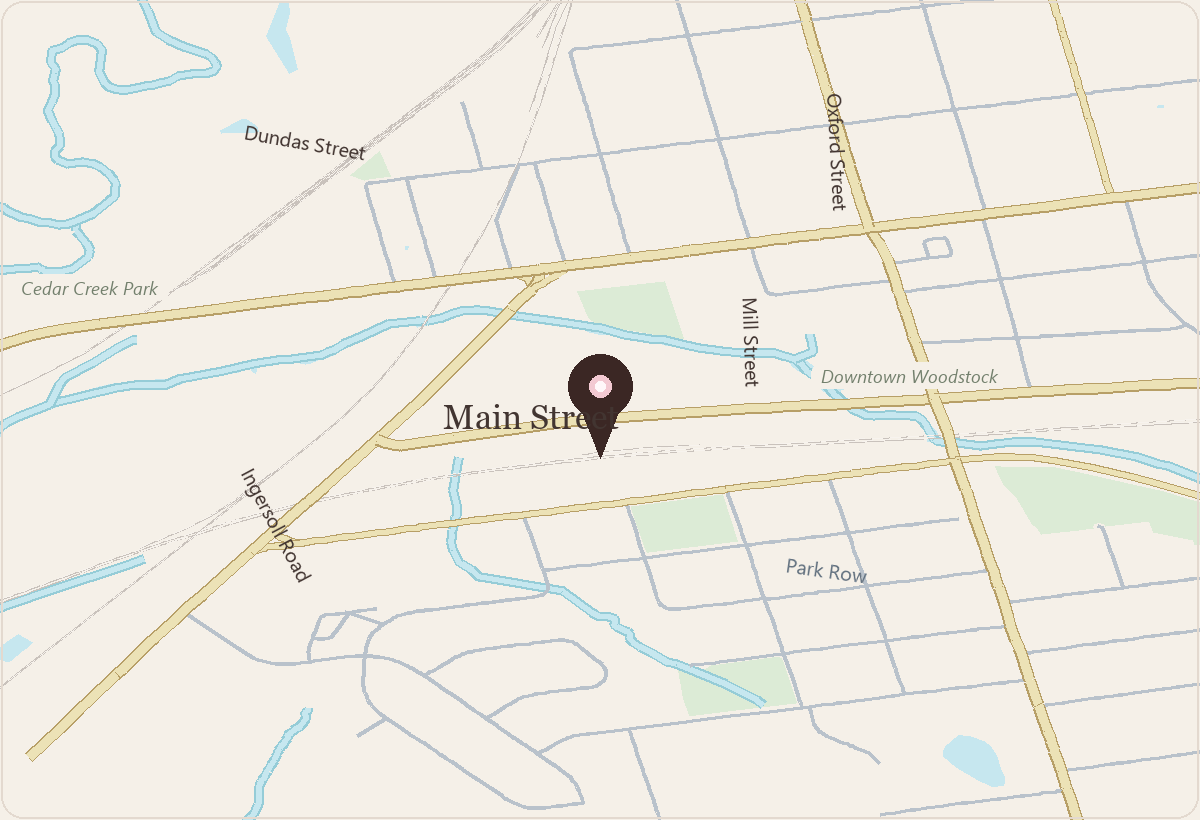
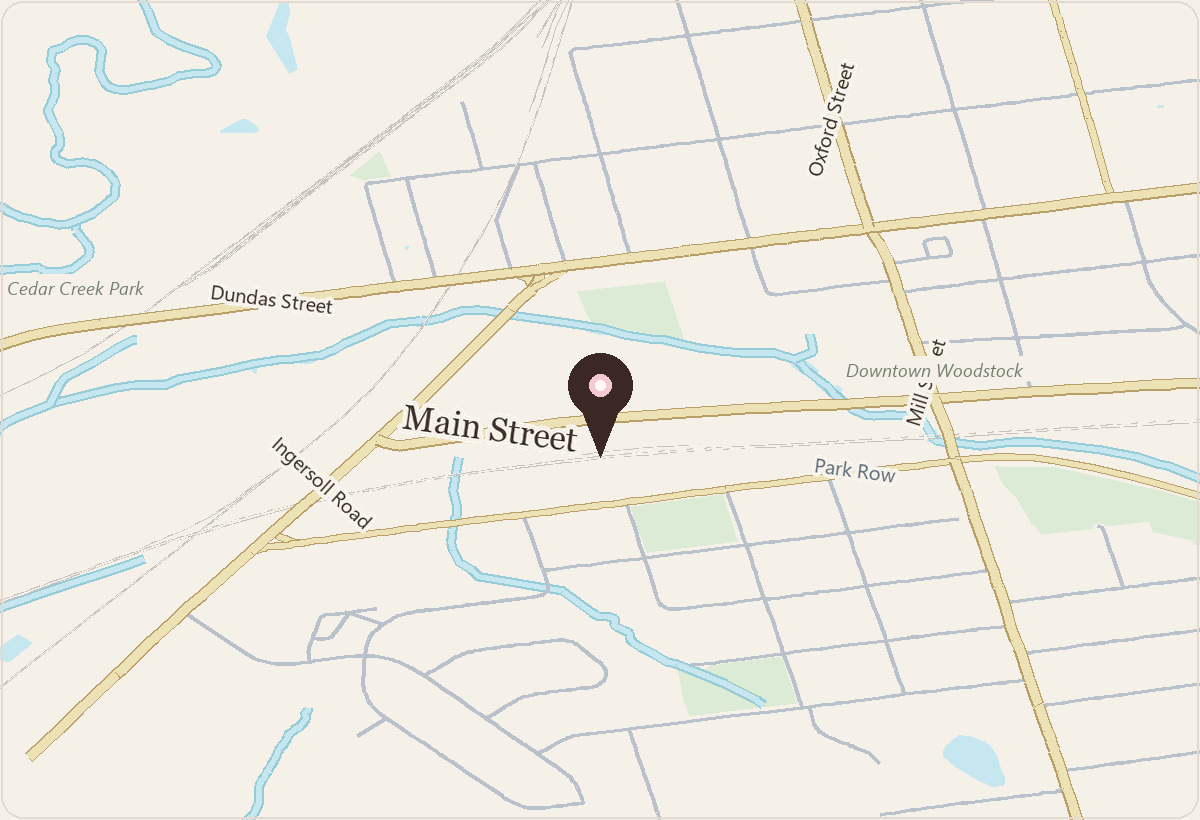
Correct map street label placement

diff --git a/scripts/generate_map.py b/scripts/generate_map.py
@@ -1,0 +1,292 @@
+import math
+from pathlib import Path
+
+import requests
+from PIL import Image, ImageDraw, ImageFont
+
+
+VENUE_LAT = 43.125887
+VENUE_LON = -80.769466
+
+WIDTH = 1200
+HEIGHT = 820
+PAD_LAT = 0.0062
+PAD_LON = 0.0082
+PAD_PX = 30
+
+OUTPUT = Path("site-redesign/assets/images/woodstock-openstreetmap.png")
+
+TARGET_LABEL_POINTS = {
+    "Main Street": (43.12577, -80.7710),
+    "Dundas Street": (43.12786, -80.77415),
+    "Ingersoll Road": (43.12472, -80.77355),
+    "Mill Street": (43.12645, -80.7646),
+    "Oxford Street": (43.13072, -80.76602),
+    "Park Row": (43.12453, -80.7657),
+}
+
+ROAD_LABEL_STYLE = {
+    "Main Street": {"font_size": 34, "fill": "#423531", "stroke": "#f5f0e8", "stroke_width": 5},
+    "Dundas Street": {"font_size": 20, "fill": "#423531", "stroke": "#f5f0e8", "stroke_width": 4},
+    "Ingersoll Road": {"font_size": 20, "fill": "#423531", "stroke": "#f5f0e8", "stroke_width": 4},
+    "Mill Street": {"font_size": 20, "fill": "#423531", "stroke": "#f5f0e8", "stroke_width": 4},
+    "Oxford Street": {"font_size": 20, "fill": "#423531", "stroke": "#f5f0e8", "stroke_width": 4},
+    "Park Row": {"font_size": 20, "fill": "#63717f", "stroke": "#f5f0e8", "stroke_width": 4},
+}
+
+
+def fetch_map_elements():
+    south = VENUE_LAT - PAD_LAT
+    north = VENUE_LAT + PAD_LAT
+    west = VENUE_LON - PAD_LON
+    east = VENUE_LON + PAD_LON
+
+    query = f"""
+    [out:json][timeout:25];
+    (
+      way["highway"]({south},{west},{north},{east});
+      way["waterway"]({south},{west},{north},{east});
+      way["railway"]({south},{west},{north},{east});
+      way["landuse"="park"]({south},{west},{north},{east});
+      way["leisure"="park"]({south},{west},{north},{east});
+      way["natural"="water"]({south},{west},{north},{east});
+    );
+    out geom tags;
+    """
+    response = requests.post(
+        "https://overpass-api.de/api/interpreter",
+        data=query.encode("utf-8"),
+        headers={"User-Agent": "BlankSpace redesign custom illustrated map"},
+        timeout=60,
+    )
+    response.raise_for_status()
+    return response.json()["elements"]
+
+
+def project(lat, lon):
+    x = PAD_PX + (lon - (VENUE_LON - PAD_LON)) / (PAD_LON * 2) * (WIDTH - PAD_PX * 2)
+    y = PAD_PX + ((VENUE_LAT + PAD_LAT) - lat) / (PAD_LAT * 2) * (HEIGHT - PAD_PX * 2)
+    return x, y
+
+
+def points_from_geometry(geometry):
+    return [project(point["lat"], point["lon"]) for point in geometry]
+
+
+def categorize(elements):
+    parks = []
+    waters = []
+    rails = []
+    roads = []
+
+    for element in elements:
+        tags = element.get("tags", {})
+        geometry = element.get("geometry")
+        if not geometry:
+            continue
+        points = points_from_geometry(geometry)
+        if tags.get("landuse") == "park" or tags.get("leisure") == "park":
+            parks.append((tags, points))
+        elif tags.get("natural") == "water" or tags.get("waterway"):
+            waters.append((tags, points))
+        elif tags.get("railway"):
+            rails.append((tags, points))
+        elif tags.get("highway"):
+            roads.append((tags, points))
+
+    return parks, waters, rails, roads
+
+
+def distance_point_to_segment(point, start, end):
+    px, py = point
+    x1, y1 = start
+    x2, y2 = end
+    dx = x2 - x1
+    dy = y2 - y1
+    seg_len_sq = dx * dx + dy * dy
+    if seg_len_sq == 0:
+        return math.hypot(px - x1, py - y1), start, 0.0
+    t = ((px - x1) * dx + (py - y1) * dy) / seg_len_sq
+    t = max(0.0, min(1.0, t))
+    nearest = (x1 + t * dx, y1 + t * dy)
+    angle = math.degrees(math.atan2(dy, dx))
+    if angle > 90:
+        angle -= 180
+    if angle < -90:
+        angle += 180
+    return math.hypot(px - nearest[0], py - nearest[1]), nearest, angle
+
+
+def nearest_label_position(roads_by_name, road_name, target_latlon):
+    target_point = project(*target_latlon)
+    best = None
+    for polyline in roads_by_name.get(road_name, []):
+        for index in range(len(polyline) - 1):
+            start = polyline[index]
+            end = polyline[index + 1]
+            distance, nearest, angle = distance_point_to_segment(target_point, start, end)
+            if best is None or distance < best[0]:
+                best = (distance, nearest, angle)
+    if best is None:
+        raise ValueError(f"No geometry found for {road_name}")
+    return best[1], best[2]
+
+
+def draw_rotated_text(base_image, text, position, angle, font, fill, stroke_fill, stroke_width):
+    temp = Image.new("RGBA", (900, 240), (255, 255, 255, 0))
+    draw = ImageDraw.Draw(temp)
+    bbox = draw.textbbox(
+        (0, 0),
+        text,
+        font=font,
+        stroke_width=stroke_width,
+    )
+    text_width = bbox[2] - bbox[0]
+    text_height = bbox[3] - bbox[1]
+    text_x = (temp.width - text_width) // 2
+    text_y = (temp.height - text_height) // 2 - 4
+    draw.text(
+        (text_x, text_y),
+        text,
+        font=font,
+        fill=fill,
+        stroke_width=stroke_width,
+        stroke_fill=stroke_fill,
+    )
+    rotated = temp.rotate(angle, expand=True, resample=Image.Resampling.BICUBIC)
+    px, py = position
+    base_image.alpha_composite(rotated, (int(px - rotated.width / 2), int(py - rotated.height / 2)))
+
+
+def draw_map():
+    bg = "#f5f0e8"
+    park_fill = "#dcebd6"
+    water_fill = "#c6e7ef"
+    water_stroke = "#95ccd7"
+    local_road = "#b9c2cb"
+    major_road_fill = "#ece2b6"
+    major_road_edge = "#b79f67"
+    rail_color = "#c9c2bc"
+    pin = "#3b2724"
+    pin_inner = "#f3c9d2"
+    pin_core = "#fff7f9"
+
+    major_names = set(TARGET_LABEL_POINTS.keys())
+
+    elements = fetch_map_elements()
+    parks, waters, rails, roads = categorize(elements)
+
+    roads_by_name = {}
+    for tags, polyline in roads:
+        name = tags.get("name")
+        if name:
+            roads_by_name.setdefault(name, []).append(polyline)
+
+    image = Image.new("RGBA", (WIDTH, HEIGHT), bg)
+    draw = ImageDraw.Draw(image)
+
+    for tags, polygon in parks:
+        if len(polygon) >= 3:
+            draw.polygon(polygon, fill=park_fill)
+
+    for tags, polygon in waters:
+        if tags.get("natural") == "water" and len(polygon) >= 3:
+            draw.polygon(polygon, fill=water_fill)
+
+    for tags, line in waters:
+        if tags.get("waterway") and len(line) >= 2:
+            draw.line(line, fill=water_stroke, width=10, joint="curve")
+            draw.line(line, fill=water_fill, width=6, joint="curve")
+
+    for tags, line in roads:
+        name = tags.get("name", "")
+        highway = tags.get("highway", "")
+        if highway in {"service", "track", "path", "footway", "cycleway"}:
+            continue
+        if highway in {"secondary", "primary", "trunk", "primary_link", "secondary_link"} or name in major_names:
+            continue
+        draw.line(line, fill=local_road, width=4, joint="curve")
+
+    for tags, line in rails:
+        draw.line(line, fill=rail_color, width=2, joint="curve")
+        for idx in range(len(line) - 1):
+            x1, y1 = line[idx]
+            x2, y2 = line[idx + 1]
+            segment_length = math.hypot(x2 - x1, y2 - y1)
+            if segment_length == 0:
+                continue
+            dash = 10
+            gap = 8
+            dx = (x2 - x1) / segment_length
+            dy = (y2 - y1) / segment_length
+            progress = 0
+            while progress < segment_length:
+                start = progress
+                end = min(progress + dash, segment_length)
+                draw.line(
+                    [(x1 + dx * start, y1 + dy * start), (x1 + dx * end, y1 + dy * end)],
+                    fill="#f7f3ee",
+                    width=1,
+                )
+                progress += dash + gap
+
+    for tags, line in roads:
+        name = tags.get("name", "")
+        highway = tags.get("highway", "")
+        if highway in {"secondary", "primary", "trunk", "primary_link", "secondary_link"} or name in major_names:
+            outer_width = 12 if name in {"Main Street", "Dundas Street", "Ingersoll Road", "Mill Street", "Oxford Street"} else 8
+            inner_width = 9 if outer_width == 12 else 6
+            draw.line(line, fill=major_road_edge, width=outer_width, joint="curve")
+            draw.line(line, fill=major_road_fill, width=inner_width, joint="curve")
+
+    georgia = "C:/Windows/Fonts/georgia.ttf"
+    segoe = "C:/Windows/Fonts/segoeui.ttf"
+    italic = "C:/Windows/Fonts/segoeuii.ttf"
+
+    for road_name, latlon in TARGET_LABEL_POINTS.items():
+        position, angle = nearest_label_position(roads_by_name, road_name, latlon)
+        style = ROAD_LABEL_STYLE[road_name]
+        font_path = georgia if road_name == "Main Street" else segoe
+        font = ImageFont.truetype(font_path, style["font_size"])
+        draw_rotated_text(
+            image,
+            road_name,
+            position,
+            angle,
+            font,
+            style["fill"],
+            style["stroke"],
+            style["stroke_width"],
+        )
+
+    park_font = ImageFont.truetype(italic, 18)
+    for text, position in [
+        ("Cedar Creek Park", project(43.1279, -80.777)),
+        ("Downtown Woodstock", project(43.12655, -80.76465)),
+    ]:
+        bbox = draw.textbbox((0, 0), text, font=park_font)
+        width = bbox[2] - bbox[0]
+        height = bbox[3] - bbox[1]
+        x, y = position
+        draw.rounded_rectangle(
+            (x - width / 2 - 10, y - height / 2 - 6, x + width / 2 + 10, y + height / 2 + 6),
+            radius=12,
+            fill=(245, 240, 232, 180),
+        )
+        draw.text((x, y), text, font=park_font, fill="#73806d", anchor="mm")
+
+    marker_x, marker_y = project(VENUE_LAT, VENUE_LON)
+    radius = 32
+    draw.ellipse((marker_x - radius, marker_y - radius - 24, marker_x + radius, marker_y + radius - 24), fill=pin)
+    draw.polygon([(marker_x - 22, marker_y - 8), (marker_x + 22, marker_y - 8), (marker_x, marker_y + 48)], fill=pin)
+    draw.ellipse((marker_x - 11, marker_y - 35, marker_x + 11, marker_y - 13), fill=pin_inner)
+    draw.ellipse((marker_x - 5, marker_y - 29, marker_x + 5, marker_y - 19), fill=pin_core)
+
+    draw.rounded_rectangle((1, 1, WIDTH - 2, HEIGHT - 2), radius=22, outline="#e3d9cf", width=2)
+
+    image.convert("RGB").save(OUTPUT, quality=95)
+
+
+if __name__ == "__main__":
+    OUTPUT.parent.mkdir(parents=True, exist_ok=True)
+    draw_map()
